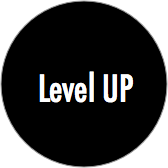
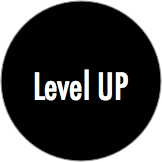
Add simple game ui

Changed region(s): [[0.1852, 0.4012, 0.8025, 0.6481]]

diff --git a/static/js/game.js b/static/js/game.js
@@ -1,2 +1,2 @@
-"use strict";function _classCallCheck(t,e){if(!(t instanceof e))throw new TypeError("Cannot call a class as a function")}function _classCallCheck(t,e){if(!(t instanceof e))throw new TypeError("Cannot call a class as a function")}function _inherits(t,e){if("function"!=typeof e&&null!==e)throw new TypeError("Super expression must either be null or a function, not "+typeof e);t.prototype=Object.create(e&&e.prototype,{constructor:{value:t,enumerable:!1,writable:!0,configurable:!0}}),e&&(t.__proto__=e)}function _classCallCheck(t,e){if(!(t instanceof e))throw new TypeError("Cannot call a class as a function")}function _inherits(t,e){if("function"!=typeof e&&null!==e)throw new TypeError("Super expression must either be null or a function, not "+typeof e);t.prototype=Object.create(e&&e.prototype,{constructor:{value:t,enumerable:!1,writable:!0,configurable:!0}}),e&&(t.__proto__=e)}function _classCallCheck(t,e){if(!(t instanceof e))throw new TypeError("Cannot call a class as a function")}function _inherits(t,e){if("function"!=typeof e&&null!==e)throw new TypeError("Super expression must either be null or a function, not "+typeof e);t.prototype=Object.create(e&&e.prototype,{constructor:{value:t,enumerable:!1,writable:!0,configurable:!0}}),e&&(t.__proto__=e)}function _classCallCheck(t,e){if(!(t instanceof e))throw new TypeError("Cannot call a class as a function")}function _inherits(t,e){if("function"!=typeof e&&null!==e)throw new TypeError("Super expression must either be null or a function, not "+typeof e);t.prototype=Object.create(e&&e.prototype,{constructor:{value:t,enumerable:!1,writable:!0,configurable:!0}}),e&&(t.__proto__=e)}function _classCallCheck(t,e){if(!(t instanceof e))throw new TypeError("Cannot call a class as a function")}window.Assets=window.Assets||{},Assets.MainMenu={btn_StartGame:"ui/btn_StartGame.png"},Assets.BattleField={dev_Enemy:"monsters/dev_Enemy.png",dev_Tower:"towers/dev_Tower01.png",UI_Placehold:"ui/UI_Placehold.png"},window.Debug=window.Debug||!0,window.States=window.States||{},window.Scenes=window.Scenes||{},window.Objects=window.Objects||{},window.Input=window.Input||{},window.Game=window.Input||{},window.Teams={Walrus:0,Slime:1},window.Types={Tower:1e3,Monster:1001},window.Settings={UI:{Height:200}},window.Helper=window.Helper||{},Helper.RetinaFilter=function(t,e){return t},Helper.LoadImages=function(t,e,n){var a="";n=n||0;for(a in e)t.image(a,"img/"+Helper.RetinaFilter(e[a],n))},Helper.CalcLand=function(t,e){var n=t.height,a=e.height/2;return n-Settings.UI.Height-a};var _createClass=function(){function t(t,e){for(var n=0;n<e.length;n++){var a=e[n];a.enumerable=a.enumerable||!1,a.configurable=!0,"value"in a&&(a.writable=!0),Object.defineProperty(t,a.key,a)}}return function(e,n,a){return n&&t(e.prototype,n),a&&t(e,a),e}}();Input=function(){function t(){_classCallCheck(this,t),this._pointerData=[],this._cameraX=0}return _createClass(t,[{key:"OnTouchStart",value:function(){var t=this;return function(e){t._pointerData.push({x:e.touches[0].clientX,y:e.touches[0].clientY}),t.cameraX=this.camera.x}}},{key:"OnTouchEnd",value:function(){var t=this;return function(e){t._pointerData=[]}}},{key:"OnTouchMove",value:function(){var t=this;return function(e){"BattleField"==this.state.current&&(t._pointerData.push({x:e.touches[0].clientX,y:e.touches[0].clientY}),this.camera.x=t.horizontalDragStep())}}},{key:"OnKeyPress",value:function(){return function(t,e){if("BattleField"==this.game.state.current){var n=this.game.state.getCurrentState();(t==Phaser.Keyboard.RIGHT||"d"==t)&&(n.ScrollDirection=Input.SCROLL_DIRECTION.RIGHT),(t==Phaser.Keyboard.LEFT||"a"==t)&&(n.ScrollDirection=Input.SCROLL_DIRECTION.LEFT)}}}},{key:"OnKeyUp",value:function(){return function(t,e){if("BattleField"==this.game.state.current){var n=this.game.state.getCurrentState();n.ScrollDirection=Input.SCROLL_DIRECTION.STOP}}}},{key:"horizontalDragStep",value:function(){if(this._pointerData.length<2)return 0;var t=this._pointerData[0],e=this._pointerData.pop();return-1==t.x||-1==e.x?(this._pointerData.shift(),0):this.cameraX-(t.x-e.x)}}],[{key:"SCROLL_SPEED",get:function(){return 20}},{key:"SCROLL_DIRECTION",get:function(){return{STOP:0,LEFT:1,RIGHT:2}}}]),t}(),function(){window.onload=function(){var t=new Phaser.Game(1024,768,Phaser.AUTO,"");t.state.add("Boot",Scenes.Boot),t.state.add("Preloader",Scenes.Preloader),t.state.add("Loading",Scenes.Loading),t.state.add("MainMenu",Scenes.MainMenu),t.state.add("BattleField",Scenes.BattleField),t.state.start("Boot")}}();var _createClass=function(){function t(t,e){for(var n=0;n<e.length;n++){var a=e[n];a.enumerable=a.enumerable||!1,a.configurable=!0,"value"in a&&(a.writable=!0),Object.defineProperty(t,a.key,a)}}return function(e,n,a){return n&&t(e.prototype,n),a&&t(e,a),e}}(),_get=function(t,e,n){for(var a=!0;a;){var i=t,o=e,s=n;r=l=c=void 0,a=!1,null===i&&(i=Function.prototype);var r=Object.getOwnPropertyDescriptor(i,o);if(void 0!==r){if("value"in r)return r.value;var c=r.get;return void 0===c?void 0:c.call(s)}var l=Object.getPrototypeOf(i);if(null===l)return void 0;t=l,e=o,n=s,a=!0}};Objects.ManaUI=function(t){function e(t,n,a,i){_classCallCheck(this,e),_get(Object.getPrototypeOf(e.prototype),"constructor",this).call(this,t,n,a,"Mana: 0/0",{font:"normal 24px 'Open Sans'",fill:"#FFF"}),this.tower=i,this.fixedToCamera=!0,console.log(this)}return _inherits(e,t),_createClass(e,[{key:"update",value:function(){this.setText("Mana: "+this.tower._mana+"/"+this.tower._maxMana)}}]),e}(Phaser.Text);var _createClass=function(){function t(t,e){for(var n=0;n<e.length;n++){var a=e[n];a.enumerable=a.enumerable||!1,a.configurable=!0,"value"in a&&(a.writable=!0),Object.defineProperty(t,a.key,a)}}return function(e,n,a){return n&&t(e.prototype,n),a&&t(e,a),e}}(),_get=function(t,e,n){for(var a=!0;a;){var i=t,o=e,s=n;r=l=c=void 0,a=!1,null===i&&(i=Function.prototype);var r=Object.getOwnPropertyDescriptor(i,o);if(void 0!==r){if("value"in r)return r.value;var c=r.get;return void 0===c?void 0:c.call(s)}var l=Object.getPrototypeOf(i);if(null===l)return void 0;t=l,e=o,n=s,a=!0}};Objects.Monster=function(t){function e(t,n,a,i){_classCallCheck(this,e),_get(Object.getPrototypeOf(e.prototype),"constructor",this).call(this,t,a,0,n,""),this.y=Helper.CalcLand(this.game,this),t.physics.enable(this,Phaser.Physics.P2JS,Debug),this.team=i,this.active=!0,this.state=States.MonsterMove,this.type=Types.Monster,this._attackTarget=null,this._speed=300,this._health=500,this._damage=20,this._minDamageRatio=.8,this._maxDamageRatio=1.2,this._attackSpeed=.25,this._coolDown=!1,this.initCollision()}return _inherits(e,t),_createClass(e,[{key:"initCollision",value:function(){if("BattleField"==this.game.state.current){var t=this.game.state.getCurrentState();switch(this.team){case Teams.Walrus:this.body.setCollisionGroup(t.CollisionGroup.Walrus),this.body.collides(t.CollisionGroup.Slime);break;case Teams.Slime:this.body.setCollisionGroup(t.CollisionGroup.Slime),this.body.collides(t.CollisionGroup.Walrus)}this.body.onBeginContact.add(this.onBeginContact,this),this.body.onEndContact.add(this.onEndContact,this)}}},{key:"update",value:function(){this.body.setZeroVelocity(),this.body.setZeroRotation(),this.state.update(this)}},{key:"onBeginContact",value:function(t){this.attackTarget=t.sprite,this.state.handleEvent(this,States.Monster.Events.BeginContact)}},{key:"onEndContact",value:function(t){this.attackTarget=null,this.state.handleEvent(this,States.Monster.Events.EndContact)}},{key:"setState",value:function(t){this.state=t}},{key:"move",value:function(){this.team==Game.team?this.body.moveRight(this._speed):this.body.moveLeft(this._speed)}},{key:"tryAttack",value:function(){if(this.attackTarget.team!=this.team&&!this._coolDown)switch(this.attackTarget.type){case Types.Tower:case Types.Monster:this.attackTarget.damage(this.game.rnd.realInRange(this._damage*this._minDamageRatio,this._damage*this._maxDamageRatio)),this.coolDown()}}},{key:"coolDown",value:function(){var t=this;this._coolDown=!0,this.game.time.events.add(Phaser.Timer.SECOND*this._attackSpeed,function(){t._coolDown=!1})}},{key:"damage",value:function(t){this._health-=t,this._health<=0&&this.destroy()}}],[{key:"cost",get:function(){return 50}}]),e}(Phaser.Sprite);var _createClass=function(){function t(t,e){for(var n=0;n<e.length;n++){var a=e[n];a.enumerable=a.enumerable||!1,a.configurable=!0,"value"in a&&(a.writable=!0),Object.defineProperty(t,a.key,a)}}return function(e,n,a){return n&&t(e.prototype,n),a&&t(e,a),e}}(),_get=function(t,e,n){for(var a=!0;a;){var i=t,o=e,s=n;r=l=c=void 0,a=!1,null===i&&(i=Function.prototype);var r=Object.getOwnPropertyDescriptor(i,o);if(void 0!==r){if("value"in r)return r.value;var c=r.get;return void 0===c?void 0:c.call(s)}var l=Object.getPrototypeOf(i);if(null===l)return void 0;t=l,e=o,n=s,a=!0}};Objects.Tower=function(t){function e(t,n,a,i){_classCallCheck(this,e),_get(Object.getPrototypeOf(e.prototype),"constructor",this).call(this,t,a,0,n,""),this.y=Helper.CalcLand(this.game,this),t.physics.enable(this,Phaser.Physics.P2JS,Debug),this.body.kinematic=!0,this.team=i,this.type=Types.Tower,this._health=1e3,this._mana=0,this._maxMana=500,this._manaRecover=10,this._rank=1,this.game.time.events.loop(.5*Phaser.Timer.SECOND,this.recoverMana,this),this.initCollision()}return _inherits(e,t),_createClass(e,[{key:"initCollision",value:function(){if("BattleField"==this.game.state.current){var t=this.game.state.getCurrentState();switch(this.team){case Teams.Walrus:this.body.setCollisionGroup(t.CollisionGroup.Walrus),this.body.collides(t.CollisionGroup.Slime);break;case Teams.Slime:this.body.setCollisionGroup(t.CollisionGroup.Slime),this.body.collides(t.CollisionGroup.Walrus)}}}},{key:"damage",value:function(t){this._health-=t,this._health<=0&&this.destroy()}},{key:"recoverMana",value:function(){this._mana+=this._manaRecover,this._mana>this._maxMana&&(this._mana=this._maxMana)}}]),e}(Phaser.Sprite),Scenes.BattleField=function(t){this.GameScene=null,this.Layer={Background:null,Objects:null,SkillFx:null},this.UI=null,this.CollisionGroup={Walrus:null,Slime:null},this.ScrollDirection=Input.SCROLL_DIRECTION.STOP,this.PlayerTower=null},Scenes.BattleField.prototype={init:function(){this.initLayers(),this.initPhysics(),this.initGame(),this.initUI()},create:function(){this.world.setBounds(0,0,4e3,768),this.Layer.Objects.add(this.PlayerTower),this.Layer.Objects.add(new Objects.Monster(this.game,"dev_Enemy",0,Teams.Walrus)),this.Layer.Objects.add(new Objects.Tower(this.game,"dev_Tower",800,Teams.Slime)),this.Layer.Objects.add(new Objects.Monster(this.game,"dev_Enemy",1e3,Teams.Slime)),this.add.image(0,568,"UI_Placehold","",this.UI)},update:function(){this.handleScrolling()},initLayers:function(){this.GameScene=this.add.group(this.world,"GameScene"),this.UI=this.add.group(this.world,"UI"),this.Layer.Background=this.add.group(this.GameScene,"Background"),this.Layer.Objects=this.add.group(this.GameScene,"Objects"),this.Layer.SkillFx=this.add.group(this.GameScene,"SkillFx"),this.UI.fixedToCamera=!0,this.UI.cameraOffset.setTo(0,0)},initPhysics:function(){this.game.physics.p2.setImpactEvents(!0),this.CollisionGroup.Slime=this.game.physics.p2.createCollisionGroup(),this.CollisionGroup.Walrus=this.game.physics.p2.createCollisionGroup()},initGame:function(){this.PlayerTower=new Objects.Tower(this.game,"dev_Tower",300,Game.team)},initUI:function(){this.UI.add(new Objects.ManaUI(this.game,40,20,this.PlayerTower))},handleScrolling:function(){switch(this.ScrollDirection){case Input.SCROLL_DIRECTION.RIGHT:this.camera.x+=Input.SCROLL_SPEED;break;case Input.SCROLL_DIRECTION.LEFT:this.camera.x-=Input.SCROLL_SPEED}}},Scenes.Boot={init:function(){this.input.maxPointers=1,this.stage.disableVisibilityChange=!0,this.scale.scaleMode=Phaser.ScaleManager.SHOW_ALL,this.scale.setMinMax(480,260,1024,768),this.scale.pageAlignHorizontally=!0,this.scale.pageAlignVertically=!0,this.game.device.desktop||(this.stage.scaleMode=Phaser.ScaleManager.EXACT_FIT),this.scale.refresh()},preload:function(){},create:function(){this.state.start("Preloader");var t=new Input;this.input.touch.touchStartCallback=t.OnTouchStart(),this.input.touch.touchMoveCallback=t.OnTouchMove(),this.input.touch.touchEndCallback=t.OnTouchEnd(),this.input.keyboard.onPressCallback=t.OnKeyPress(),this.input.keyboard.onUpCallback=t.OnKeyUp(),this.game.time.advancedTiming=!0,this.physics.startSystem(Phaser.Physics.P2JS)},gameResized:function(t,e){}},Scenes.Loading=function(t){this.targetState=null,this.preloadList={}},Scenes.Loading.prototype={init:function(t,e){this.targetState=t,this.preloadList=e||{}},preload:function(){Helper.LoadImages(this.load,this.preloadList,this.game.device.pixelRatio)},update:function(){this.load.hasLoaded&&this.state.start(this.targetState)}},Scenes.MainMenu=function(t){this.ui={startGame:null}},Scenes.MainMenu.prototype={create:function(){var t=this.cache.getImage("btn_StartGame");this.ui.startGame=this.add.button(this.game.width/2-t.width/2,this.game.height/2-t.height/2,"btn_StartGame",this.startGame,this)},update:function(){},startGame:function(){this.state.start("Loading",!0,!1,"BattleField",Assets.BattleField)}},Scenes.Preloader={preload:function(){Helper.LoadImages(this.load,Assets.MainMenu,this.game.device.pixelRatio)},create:function(){},update:function(){this.load.hasLoaded&&this.state.start("MainMenu")}};var _createClass=function(){function t(t,e){for(var n=0;n<e.length;n++){var a=e[n];a.enumerable=a.enumerable||!1,a.configurable=!0,"value"in a&&(a.writable=!0),Object.defineProperty(t,a.key,a)}}return function(e,n,a){return n&&t(e.prototype,n),a&&t(e,a),e}}();!function(){var t=function(){function t(){_classCallCheck(this,t),this.team=Teams.Walrus}return _createClass(t,[{key:"setTeam",value:function(t){this.team=t}}]),t}();Game=new t}();var _get=function(t,e,n){for(var a=!0;a;){var i=t,o=e,s=n;r=l=c=void 0,a=!1,null===i&&(i=Function.prototype);var r=Object.getOwnPropertyDescriptor(i,o);if(void 0!==r){if("value"in r)return r.value;var c=r.get;return void 0===c?void 0:c.call(s)}var l=Object.getPrototypeOf(i);if(null===l)return void 0;t=l,e=o,n=s,a=!0}},_createClass=function(){function t(t,e){for(var n=0;n<e.length;n++){var a=e[n];a.enumerable=a.enumerable||!1,a.configurable=!0,"value"in a&&(a.writable=!0),Object.defineProperty(t,a.key,a)}}return function(e,n,a){return n&&t(e.prototype,n),a&&t(e,a),e}}();!function(){var t={BeginContact:0,EndContact:1,Dead:2},e=function(){function e(){_classCallCheck(this,e)}return _createClass(e,[{key:"handleEvent",value:function(t,n){return t.SetState(e.MoveState)}},{key:"update",value:function(){}}],[{key:"MoveState",get:function(){return States.MonsterMove}},{key:"AttackState",get:function(){return States.MonsterAttack}},{key:"DeadState",get:function(){return States.DeadState}},{key:"Events",get:function(){return t}}]),e}(),n=function(e){function n(){_classCallCheck(this,n),_get(Object.getPrototypeOf(n.prototype),"constructor",this).apply(this,arguments)}return _inherits(n,e),_createClass(n,[{key:"handleEvent",value:function(e,n){switch(n){case t.BeginContact:e.setState(States.MonsterAttack)}}},{key:"update",value:function(t){t.move()}}]),n}(e),a=function(e){function n(){_classCallCheck(this,n),_get(Object.getPrototypeOf(n.prototype),"constructor",this).apply(this,arguments)}return _inherits(n,e),_createClass(n,[{key:"handleEvent",value:function(e,n){switch(n){case t.EndContact:e.setState(States.MonsterMove)}}},{key:"update",value:function(t){t.tryAttack()}}]),n}(e),i=function(t){function e(){_classCallCheck(this,e),_get(Object.getPrototypeOf(e.prototype),"constructor",this).apply(this,arguments)}return _inherits(e,t),_createClass(e,[{key:"handleEvent",value:function(t,e){}},{key:"update",value:function(t){}}]),e}(e);States.Monster=e,States.MonsterMove=new n,States.MonsterAttack=new a,States.MonsterDead=new i}();
+"use strict";function _classCallCheck(t,e){if(!(t instanceof e))throw new TypeError("Cannot call a class as a function")}function _classCallCheck(t,e){if(!(t instanceof e))throw new TypeError("Cannot call a class as a function")}function _inherits(t,e){if("function"!=typeof e&&null!==e)throw new TypeError("Super expression must either be null or a function, not "+typeof e);t.prototype=Object.create(e&&e.prototype,{constructor:{value:t,enumerable:!1,writable:!0,configurable:!0}}),e&&(t.__proto__=e)}function _classCallCheck(t,e){if(!(t instanceof e))throw new TypeError("Cannot call a class as a function")}function _inherits(t,e){if("function"!=typeof e&&null!==e)throw new TypeError("Super expression must either be null or a function, not "+typeof e);t.prototype=Object.create(e&&e.prototype,{constructor:{value:t,enumerable:!1,writable:!0,configurable:!0}}),e&&(t.__proto__=e)}function _classCallCheck(t,e){if(!(t instanceof e))throw new TypeError("Cannot call a class as a function")}function _inherits(t,e){if("function"!=typeof e&&null!==e)throw new TypeError("Super expression must either be null or a function, not "+typeof e);t.prototype=Object.create(e&&e.prototype,{constructor:{value:t,enumerable:!1,writable:!0,configurable:!0}}),e&&(t.__proto__=e)}function _classCallCheck(t,e){if(!(t instanceof e))throw new TypeError("Cannot call a class as a function")}function _inherits(t,e){if("function"!=typeof e&&null!==e)throw new TypeError("Super expression must either be null or a function, not "+typeof e);t.prototype=Object.create(e&&e.prototype,{constructor:{value:t,enumerable:!1,writable:!0,configurable:!0}}),e&&(t.__proto__=e)}function _classCallCheck(t,e){if(!(t instanceof e))throw new TypeError("Cannot call a class as a function")}function _inherits(t,e){if("function"!=typeof e&&null!==e)throw new TypeError("Super expression must either be null or a function, not "+typeof e);t.prototype=Object.create(e&&e.prototype,{constructor:{value:t,enumerable:!1,writable:!0,configurable:!0}}),e&&(t.__proto__=e)}function _classCallCheck(t,e){if(!(t instanceof e))throw new TypeError("Cannot call a class as a function")}function _inherits(t,e){if("function"!=typeof e&&null!==e)throw new TypeError("Super expression must either be null or a function, not "+typeof e);t.prototype=Object.create(e&&e.prototype,{constructor:{value:t,enumerable:!1,writable:!0,configurable:!0}}),e&&(t.__proto__=e)}function _classCallCheck(t,e){if(!(t instanceof e))throw new TypeError("Cannot call a class as a function")}function _inherits(t,e){if("function"!=typeof e&&null!==e)throw new TypeError("Super expression must either be null or a function, not "+typeof e);t.prototype=Object.create(e&&e.prototype,{constructor:{value:t,enumerable:!1,writable:!0,configurable:!0}}),e&&(t.__proto__=e)}function _classCallCheck(t,e){if(!(t instanceof e))throw new TypeError("Cannot call a class as a function")}window.Assets=window.Assets||{},Assets.MainMenu={btn_StartGame:"ui/btn_StartGame.png"},Assets.BattleField={dev_Enemy:"monsters/dev_Enemy.png",dev_Tower:"towers/dev_Tower01.png",UI_Placehold:"ui/UI_Placehold.png",UI_MonsterCard:"ui/UI_MonsterCard.png",UI_MonsterCardSuper:"ui/UI_MonsterCardSuper.png",btn_LevelUP:"ui/btn_LevelUP.png"},window.Debug=window.Debug||!0,window.States=window.States||{},window.Scenes=window.Scenes||{},window.Objects=window.Objects||{},window.Input=window.Input||{},window.Game=window.Input||{},window.Teams={Walrus:0,Slime:1},window.Types={Tower:1e3,Monster:1001},window.MonsterType={Normal:0},window.Settings={UI:{Height:200}},window.Helper=window.Helper||{},Helper.RetinaFilter=function(t,e){return t},Helper.LoadImages=function(t,e,n){var a="";n=n||0;for(a in e)t.image(a,"img/"+Helper.RetinaFilter(e[a],n))},Helper.CalcLand=function(t,e){var n=t.height,a=e.height/2;return n-Settings.UI.Height-a};var _createClass=function(){function t(t,e){for(var n=0;n<e.length;n++){var a=e[n];a.enumerable=a.enumerable||!1,a.configurable=!0,"value"in a&&(a.writable=!0),Object.defineProperty(t,a.key,a)}}return function(e,n,a){return n&&t(e.prototype,n),a&&t(e,a),e}}();Input=function(){function t(){_classCallCheck(this,t),this._pointerData=[],this._cameraX=0}return _createClass(t,[{key:"OnTouchStart",value:function(){var t=this;return function(e){t._pointerData.push({x:e.touches[0].clientX,y:e.touches[0].clientY}),t.cameraX=this.camera.x}}},{key:"OnTouchEnd",value:function(){var t=this;return function(e){t._pointerData=[]}}},{key:"OnTouchMove",value:function(){var t=this;return function(e){"BattleField"==this.state.current&&(t._pointerData.push({x:e.touches[0].clientX,y:e.touches[0].clientY}),this.camera.x=t.horizontalDragStep())}}},{key:"OnKeyPress",value:function(){return function(t,e){if("BattleField"==this.game.state.current){var n=this.game.state.getCurrentState();(t==Phaser.Keyboard.RIGHT||"d"==t)&&(n.ScrollDirection=Input.SCROLL_DIRECTION.RIGHT),(t==Phaser.Keyboard.LEFT||"a"==t)&&(n.ScrollDirection=Input.SCROLL_DIRECTION.LEFT)}}}},{key:"OnKeyUp",value:function(){return function(t,e){if("BattleField"==this.game.state.current){var n=this.game.state.getCurrentState();n.ScrollDirection=Input.SCROLL_DIRECTION.STOP}}}},{key:"horizontalDragStep",value:function(){if(this._pointerData.length<2)return 0;var t=this._pointerData[0],e=this._pointerData.pop();return-1==t.x||-1==e.x?(this._pointerData.shift(),0):this.cameraX-(t.x-e.x)}}],[{key:"SCROLL_SPEED",get:function(){return 20}},{key:"SCROLL_DIRECTION",get:function(){return{STOP:0,LEFT:1,RIGHT:2}}}]),t}(),function(){window.onload=function(){var t=new Phaser.Game(1024,768,Phaser.AUTO,"");t.state.add("Boot",Scenes.Boot),t.state.add("Preloader",Scenes.Preloader),t.state.add("Loading",Scenes.Loading),t.state.add("MainMenu",Scenes.MainMenu),t.state.add("BattleField",Scenes.BattleField),t.state.start("Boot")}}();var _createClass=function(){function t(t,e){for(var n=0;n<e.length;n++){var a=e[n];a.enumerable=a.enumerable||!1,a.configurable=!0,"value"in a&&(a.writable=!0),Object.defineProperty(t,a.key,a)}}return function(e,n,a){return n&&t(e.prototype,n),a&&t(e,a),e}}(),_get=function(t,e,n){for(var a=!0;a;){var i=t,r=e,o=n;s=l=c=void 0,a=!1,null===i&&(i=Function.prototype);var s=Object.getOwnPropertyDescriptor(i,r);if(void 0!==s){if("value"in s)return s.value;var c=s.get;return void 0===c?void 0:c.call(o)}var l=Object.getPrototypeOf(i);if(null===l)return void 0;t=l,e=r,n=o,a=!0}};Objects.GameUI=function(t){function e(t,n,a,i){_classCallCheck(this,e),_get(Object.getPrototypeOf(e.prototype),"constructor",this).call(this,t,n,a),this.fixedToCamera=!0,this.scene=i,this.initMonsterCard(),this.initUI()}return _inherits(e,t),_createClass(e,[{key:"initMonsterCard",value:function(){this.game.add.image(0,568,"UI_Placehold","",this),this.add(new Objects.MonsterCardUI(this.game,0,568,"UI_MonsterCard",MonsterType.Nomral)),this.add(new Objects.MonsterCardUI(this.game,120,568,"UI_MonsterCard",MonsterType.Nomral)),this.add(new Objects.MonsterCardUI(this.game,240,568,"UI_MonsterCard",MonsterType.Nomral)),this.add(new Objects.MonsterCardUI(this.game,360,568,"UI_MonsterCard",MonsterType.Nomral)),this.add(new Objects.MonsterCardUI(this.game,480,568,"UI_MonsterCard",MonsterType.Nomral)),this.add(new Objects.MonsterCardUI(this.game,600,568,"UI_MonsterCardSuper",MonsterType.Nomral)),this.add(new Objects.LevelUpUI(this.game,840,586))}},{key:"initUI",value:function(){this.add(new Objects.ManaUI(this.game,40,20,this.scene.PlayerTower))}}]),e}(Phaser.Group);var _createClass=function(){function t(t,e){for(var n=0;n<e.length;n++){var a=e[n];a.enumerable=a.enumerable||!1,a.configurable=!0,"value"in a&&(a.writable=!0),Object.defineProperty(t,a.key,a)}}return function(e,n,a){return n&&t(e.prototype,n),a&&t(e,a),e}}(),_get=function(t,e,n){for(var a=!0;a;){var i=t,r=e,o=n;s=l=c=void 0,a=!1,null===i&&(i=Function.prototype);var s=Object.getOwnPropertyDescriptor(i,r);if(void 0!==s){if("value"in s)return s.value;var c=s.get;return void 0===c?void 0:c.call(o)}var l=Object.getPrototypeOf(i);if(null===l)return void 0;t=l,e=r,n=o,a=!0}};Objects.LevelUpUI=function(t){function e(t,n,a){_classCallCheck(this,e),_get(Object.getPrototypeOf(e.prototype),"constructor",this).call(this,t,n,a,"btn_LevelUP"),this.onInputUp.add(this.onClick,this)}return _inherits(e,t),_createClass(e,[{key:"onClick",value:function(){}}]),e}(Phaser.Button);var _createClass=function(){function t(t,e){for(var n=0;n<e.length;n++){var a=e[n];a.enumerable=a.enumerable||!1,a.configurable=!0,"value"in a&&(a.writable=!0),Object.defineProperty(t,a.key,a)}}return function(e,n,a){return n&&t(e.prototype,n),a&&t(e,a),e}}(),_get=function(t,e,n){for(var a=!0;a;){var i=t,r=e,o=n;s=l=c=void 0,a=!1,null===i&&(i=Function.prototype);var s=Object.getOwnPropertyDescriptor(i,r);if(void 0!==s){if("value"in s)return s.value;var c=s.get;return void 0===c?void 0:c.call(o)}var l=Object.getPrototypeOf(i);if(null===l)return void 0;t=l,e=r,n=o,a=!0}};Objects.ManaUI=function(t){function e(t,n,a,i){_classCallCheck(this,e),_get(Object.getPrototypeOf(e.prototype),"constructor",this).call(this,t,n,a,"Mana: 0/0",{font:"normal 24px 'Open Sans'",fill:"#FFF"}),this.tower=i}return _inherits(e,t),_createClass(e,[{key:"update",value:function(){this.setText("Mana: "+this.tower._mana+"/"+this.tower._maxMana)}}]),e}(Phaser.Text);var _createClass=function(){function t(t,e){for(var n=0;n<e.length;n++){var a=e[n];a.enumerable=a.enumerable||!1,a.configurable=!0,"value"in a&&(a.writable=!0),Object.defineProperty(t,a.key,a)}}return function(e,n,a){return n&&t(e.prototype,n),a&&t(e,a),e}}(),_get=function(t,e,n){for(var a=!0;a;){var i=t,r=e,o=n;s=l=c=void 0,a=!1,null===i&&(i=Function.prototype);var s=Object.getOwnPropertyDescriptor(i,r);if(void 0!==s){if("value"in s)return s.value;var c=s.get;return void 0===c?void 0:c.call(o)}var l=Object.getPrototypeOf(i);if(null===l)return void 0;t=l,e=r,n=o,a=!0}};Objects.Monster=function(t){function e(t,n,a,i){_classCallCheck(this,e),_get(Object.getPrototypeOf(e.prototype),"constructor",this).call(this,t,a,0,n,""),this.y=Helper.CalcLand(this.game,this),t.physics.enable(this,Phaser.Physics.P2JS,Debug),this.team=i,this.active=!0,this.state=States.MonsterMove,this.type=Types.Monster,this._attackTarget=null,this._speed=300,this._health=500,this._damage=20,this._minDamageRatio=.8,this._maxDamageRatio=1.2,this._attackSpeed=.25,this._coolDown=!1,this.initCollision()}return _inherits(e,t),_createClass(e,[{key:"initCollision",value:function(){if("BattleField"==this.game.state.current){var t=this.game.state.getCurrentState();switch(this.team){case Teams.Walrus:this.body.setCollisionGroup(t.CollisionGroup.Walrus),this.body.collides(t.CollisionGroup.Slime);break;case Teams.Slime:this.body.setCollisionGroup(t.CollisionGroup.Slime),this.body.collides(t.CollisionGroup.Walrus)}this.body.onBeginContact.add(this.onBeginContact,this),this.body.onEndContact.add(this.onEndContact,this)}}},{key:"update",value:function(){this.body.setZeroVelocity(),this.body.setZeroRotation(),this.state.update(this)}},{key:"onBeginContact",value:function(t){this.attackTarget=t.sprite,this.state.handleEvent(this,States.Monster.Events.BeginContact)}},{key:"onEndContact",value:function(t){this.attackTarget=null,this.state.handleEvent(this,States.Monster.Events.EndContact)}},{key:"setState",value:function(t){this.state=t}},{key:"move",value:function(){this.team==Game.team?this.body.moveRight(this._speed):this.body.moveLeft(this._speed)}},{key:"tryAttack",value:function(){if(this.attackTarget.team!=this.team&&!this._coolDown)switch(this.attackTarget.type){case Types.Tower:case Types.Monster:this.attackTarget.damage(this.game.rnd.realInRange(this._damage*this._minDamageRatio,this._damage*this._maxDamageRatio)),this.coolDown()}}},{key:"coolDown",value:function(){var t=this;this._coolDown=!0,this.game.time.events.add(Phaser.Timer.SECOND*this._attackSpeed,function(){t._coolDown=!1})}},{key:"damage",value:function(t){this._health-=t,this._health<=0&&this.destroy()}}],[{key:"cost",get:function(){return 50}}]),e}(Phaser.Sprite);var _createClass=function(){function t(t,e){for(var n=0;n<e.length;n++){var a=e[n];a.enumerable=a.enumerable||!1,a.configurable=!0,"value"in a&&(a.writable=!0),Object.defineProperty(t,a.key,a)}}return function(e,n,a){return n&&t(e.prototype,n),a&&t(e,a),e}}(),_get=function(t,e,n){for(var a=!0;a;){var i=t,r=e,o=n;s=l=c=void 0,a=!1,null===i&&(i=Function.prototype);var s=Object.getOwnPropertyDescriptor(i,r);if(void 0!==s){if("value"in s)return s.value;var c=s.get;return void 0===c?void 0:c.call(o)}var l=Object.getPrototypeOf(i);if(null===l)return void 0;t=l,e=r,n=o,a=!0}};Objects.MonsterCardUI=function(t){function e(t,n,a,i,r){_classCallCheck(this,e),_get(Object.getPrototypeOf(e.prototype),"constructor",this).call(this,t,n,a,i),this.monsterType=r,this.onInputUp.add(this.onClick,this)}return _inherits(e,t),_createClass(e,[{key:"onClick",value:function(){}}]),e}(Phaser.Button);var _createClass=function(){function t(t,e){for(var n=0;n<e.length;n++){var a=e[n];a.enumerable=a.enumerable||!1,a.configurable=!0,"value"in a&&(a.writable=!0),Object.defineProperty(t,a.key,a)}}return function(e,n,a){return n&&t(e.prototype,n),a&&t(e,a),e}}(),_get=function(t,e,n){for(var a=!0;a;){var i=t,r=e,o=n;s=l=c=void 0,a=!1,null===i&&(i=Function.prototype);var s=Object.getOwnPropertyDescriptor(i,r);if(void 0!==s){if("value"in s)return s.value;var c=s.get;return void 0===c?void 0:c.call(o)}var l=Object.getPrototypeOf(i);if(null===l)return void 0;t=l,e=r,n=o,a=!0}};Objects.Tower=function(t){function e(t,n,a,i){_classCallCheck(this,e),_get(Object.getPrototypeOf(e.prototype),"constructor",this).call(this,t,a,0,n,""),this.y=Helper.CalcLand(this.game,this),t.physics.enable(this,Phaser.Physics.P2JS,Debug),this.body.kinematic=!0,this.team=i,this.type=Types.Tower,this._health=1e3,this._mana=0,this._maxMana=500,this._manaRecover=10,this._rank=1,this.game.time.events.loop(.5*Phaser.Timer.SECOND,this.recoverMana,this),this.initCollision()}return _inherits(e,t),_createClass(e,[{key:"initCollision",value:function(){if("BattleField"==this.game.state.current){var t=this.game.state.getCurrentState();switch(this.team){case Teams.Walrus:this.body.setCollisionGroup(t.CollisionGroup.Walrus),this.body.collides(t.CollisionGroup.Slime);break;case Teams.Slime:this.body.setCollisionGroup(t.CollisionGroup.Slime),this.body.collides(t.CollisionGroup.Walrus)}}}},{key:"damage",value:function(t){this._health-=t,this._health<=0&&this.destroy()}},{key:"recoverMana",value:function(){this._mana+=this._manaRecover,this._mana>this._maxMana&&(this._mana=this._maxMana)}}]),e}(Phaser.Sprite),Scenes.BattleField=function(t){this.GameScene=null,this.Layer={Background:null,Objects:null,SkillFx:null},this.UI=null,this.CollisionGroup={Walrus:null,Slime:null},this.ScrollDirection=Input.SCROLL_DIRECTION.STOP,this.PlayerTower=null},Scenes.BattleField.prototype={init:function(){this.initLayers(),this.initPhysics(),this.initGame(),this.initUI()},create:function(){this.world.setBounds(0,0,4e3,768),this.Layer.Objects.add(this.PlayerTower),this.Layer.Objects.add(new Objects.Monster(this.game,"dev_Enemy",0,Teams.Walrus)),this.Layer.Objects.add(new Objects.Tower(this.game,"dev_Tower",800,Teams.Slime)),this.Layer.Objects.add(new Objects.Monster(this.game,"dev_Enemy",1e3,Teams.Slime))},update:function(){this.handleScrolling()},initLayers:function(){this.GameScene=this.add.group(this.world,"GameScene"),this.Layer.Background=this.add.group(this.GameScene,"Background"),this.Layer.Objects=this.add.group(this.GameScene,"Objects"),this.Layer.SkillFx=this.add.group(this.GameScene,"SkillFx")},initPhysics:function(){this.game.physics.p2.setImpactEvents(!0),this.CollisionGroup.Slime=this.game.physics.p2.createCollisionGroup(),this.CollisionGroup.Walrus=this.game.physics.p2.createCollisionGroup()},initGame:function(){this.PlayerTower=new Objects.Tower(this.game,"dev_Tower",300,Game.team)},initUI:function(){this.UI=new Objects.GameUI(this.game,this.world,"UI",this)},handleScrolling:function(){switch(this.ScrollDirection){case Input.SCROLL_DIRECTION.RIGHT:this.camera.x+=Input.SCROLL_SPEED;break;case Input.SCROLL_DIRECTION.LEFT:this.camera.x-=Input.SCROLL_SPEED}}},Scenes.Boot={init:function(){this.input.maxPointers=1,this.stage.disableVisibilityChange=!0,this.scale.scaleMode=Phaser.ScaleManager.SHOW_ALL,this.scale.setMinMax(480,260,1024,768),this.scale.pageAlignHorizontally=!0,this.scale.pageAlignVertically=!0,this.game.device.desktop||(this.stage.scaleMode=Phaser.ScaleManager.EXACT_FIT),this.scale.refresh()},preload:function(){},create:function(){this.state.start("Preloader");var t=new Input;this.input.touch.touchStartCallback=t.OnTouchStart(),this.input.touch.touchMoveCallback=t.OnTouchMove(),this.input.touch.touchEndCallback=t.OnTouchEnd(),this.input.keyboard.onPressCallback=t.OnKeyPress(),this.input.keyboard.onUpCallback=t.OnKeyUp(),this.game.time.advancedTiming=!0,this.physics.startSystem(Phaser.Physics.P2JS)},gameResized:function(t,e){}},Scenes.Loading=function(t){this.targetState=null,this.preloadList={}},Scenes.Loading.prototype={init:function(t,e){this.targetState=t,this.preloadList=e||{}},preload:function(){Helper.LoadImages(this.load,this.preloadList,this.game.device.pixelRatio)},update:function(){this.load.hasLoaded&&this.state.start(this.targetState)}},Scenes.MainMenu=function(t){this.ui={startGame:null}},Scenes.MainMenu.prototype={create:function(){var t=this.cache.getImage("btn_StartGame");this.ui.startGame=this.add.button(this.game.width/2-t.width/2,this.game.height/2-t.height/2,"btn_StartGame",this.startGame,this)},update:function(){},startGame:function(){this.state.start("Loading",!0,!1,"BattleField",Assets.BattleField)}},Scenes.Preloader={preload:function(){Helper.LoadImages(this.load,Assets.MainMenu,this.game.device.pixelRatio)},create:function(){},update:function(){this.load.hasLoaded&&this.state.start("MainMenu")}};var _createClass=function(){function t(t,e){for(var n=0;n<e.length;n++){var a=e[n];a.enumerable=a.enumerable||!1,a.configurable=!0,"value"in a&&(a.writable=!0),Object.defineProperty(t,a.key,a)}}return function(e,n,a){return n&&t(e.prototype,n),a&&t(e,a),e}}();!function(){var t=function(){function t(){_classCallCheck(this,t),this.team=Teams.Walrus}return _createClass(t,[{key:"setTeam",value:function(t){this.team=t}}]),t}();Game=new t}();var _get=function(t,e,n){for(var a=!0;a;){var i=t,r=e,o=n;s=l=c=void 0,a=!1,null===i&&(i=Function.prototype);var s=Object.getOwnPropertyDescriptor(i,r);if(void 0!==s){if("value"in s)return s.value;var c=s.get;return void 0===c?void 0:c.call(o)}var l=Object.getPrototypeOf(i);if(null===l)return void 0;t=l,e=r,n=o,a=!0}},_createClass=function(){function t(t,e){for(var n=0;n<e.length;n++){var a=e[n];a.enumerable=a.enumerable||!1,a.configurable=!0,"value"in a&&(a.writable=!0),Object.defineProperty(t,a.key,a)}}return function(e,n,a){return n&&t(e.prototype,n),a&&t(e,a),e}}();!function(){var t={BeginContact:0,EndContact:1,Dead:2},e=function(){function e(){_classCallCheck(this,e)}return _createClass(e,[{key:"handleEvent",value:function(t,n){return t.SetState(e.MoveState)}},{key:"update",value:function(){}}],[{key:"MoveState",get:function(){return States.MonsterMove}},{key:"AttackState",get:function(){return States.MonsterAttack}},{key:"DeadState",get:function(){return States.DeadState}},{key:"Events",get:function(){return t}}]),e}(),n=function(e){function n(){_classCallCheck(this,n),_get(Object.getPrototypeOf(n.prototype),"constructor",this).apply(this,arguments)}return _inherits(n,e),_createClass(n,[{key:"handleEvent",value:function(e,n){switch(n){case t.BeginContact:e.setState(States.MonsterAttack)}}},{key:"update",value:function(t){t.move()}}]),n}(e),a=function(e){function n(){_classCallCheck(this,n),_get(Object.getPrototypeOf(n.prototype),"constructor",this).apply(this,arguments)}return _inherits(n,e),_createClass(n,[{key:"handleEvent",value:function(e,n){switch(n){case t.EndContact:e.setState(States.MonsterMove)}}},{key:"update",value:function(t){t.tryAttack()}}]),n}(e),i=function(t){function e(){_classCallCheck(this,e),_get(Object.getPrototypeOf(e.prototype),"constructor",this).apply(this,arguments)}return _inherits(e,t),_createClass(e,[{key:"handleEvent",value:function(t,e){}},{key:"update",value:function(t){}}]),e}(e);States.Monster=e,States.MonsterMove=new n,States.MonsterAttack=new a,States.MonsterDead=new i}();
 //# sourceMappingURL=game.js.map

diff --git a/js/scenes/BattleField.js b/js/scenes/BattleField.js
@@ -36,7 +36,7 @@ Scenes.BattleField.prototype = {
         this.Layer.Objects.add(new Objects.Tower(this.game, 'dev_Tower', 800, Teams.Slime))
         this.Layer.Objects.add(new Objects.Monster(this.game, 'dev_Enemy', 1000, Teams.Slime))
 
-        this.add.image(0, 568, 'UI_Placehold', '', this.UI)
+
     },
 
     update: function() {
@@ -46,16 +46,11 @@ Scenes.BattleField.prototype = {
     initLayers: function() {
         // Initialize Basic Layer
         this.GameScene = this.add.group(this.world, 'GameScene')
-        this.UI = this.add.group(this.world, 'UI')
 
         // Add game scene layers
         this.Layer.Background = this.add.group(this.GameScene, 'Background')
         this.Layer.Objects = this.add.group(this.GameScene, 'Objects')
         this.Layer.SkillFx = this.add.group(this.GameScene, 'SkillFx')
-
-        // Setup Camera
-        this.UI.fixedToCamera = true
-        this.UI.cameraOffset.setTo(0, 0)
     },
 
     initPhysics: function() {
@@ -70,7 +65,7 @@ Scenes.BattleField.prototype = {
     },
 
     initUI: function() {
-        this.UI.add(new Objects.ManaUI(this.game, 40, 20, this.PlayerTower))
+        this.UI = new Objects.GameUI(this.game, this.world,'UI', this)
     },
 
     handleScrolling: function() {

diff --git a/js/objects/GameUI.js b/js/objects/GameUI.js
@@ -1,0 +1,32 @@
+/**
+ * Game UI
+ */
+
+Objects.GameUI = class GameUI extends Phaser.Group {
+    constructor(game, parent, name, scene) {
+        super(game, parent, name)
+        this.fixedToCamera = true
+
+        this.scene = scene
+
+        this.initMonsterCard()
+        this.initUI()
+    }
+
+    initMonsterCard() {
+        this.game.add.image(0, 568, 'UI_Placehold', '', this)
+
+        this.add(new Objects.MonsterCardUI(this.game, 0, 568, 'UI_MonsterCard', MonsterType.Nomral))
+        this.add(new Objects.MonsterCardUI(this.game, 120, 568, 'UI_MonsterCard', MonsterType.Nomral))
+        this.add(new Objects.MonsterCardUI(this.game, 240, 568, 'UI_MonsterCard', MonsterType.Nomral))
+        this.add(new Objects.MonsterCardUI(this.game, 360, 568, 'UI_MonsterCard', MonsterType.Nomral))
+        this.add(new Objects.MonsterCardUI(this.game, 480, 568, 'UI_MonsterCard', MonsterType.Nomral))
+        this.add(new Objects.MonsterCardUI(this.game, 600, 568, 'UI_MonsterCardSuper', MonsterType.Nomral))
+
+        this.add(new Objects.LevelUpUI(this.game, 840, 586))
+    }
+
+    initUI() {
+        this.add(new Objects.ManaUI(this.game, 40, 20, this.scene.PlayerTower))
+    }
+}

diff --git a/js/Assets.js b/js/Assets.js
@@ -9,7 +9,13 @@ Assets.MainMenu = {
 }
 
 Assets.BattleField =  {
+    // Objects
     'dev_Enemy': 'monsters/dev_Enemy.png',
     'dev_Tower': 'towers/dev_Tower01.png',
-    'UI_Placehold': 'ui/UI_Placehold.png'
+    // UI
+    'UI_Placehold': 'ui/UI_Placehold.png',
+    'UI_MonsterCard': 'ui/UI_MonsterCard.png',
+    'UI_MonsterCardSuper': 'ui/UI_MonsterCardSuper.png',
+    // Button
+    'btn_LevelUP': 'ui/btn_LevelUP.png'
 }

diff --git a/js/objects/MonsterCardUI.js b/js/objects/MonsterCardUI.js
@@ -1,0 +1,17 @@
+/***
+ * Monster Card UI
+ */
+
+Objects.MonsterCardUI = class MonsterCardUI extends Phaser.Button {
+    constructor(game, x, y, key, type) {
+        super(game, x, y, key)
+
+        this.monsterType = type
+
+        // Handle Callback
+        this.onInputUp.add(this.onClick, this)
+    }
+
+    onClick() {
+    }
+}

diff --git a/js/objects/ManaUI.js b/js/objects/ManaUI.js
@@ -7,8 +7,6 @@ Objects.ManaUI = class ManaUI extends Phaser.Text {
         super(game, x, y, "Mana: 0/0", {font: "normal 24px 'Open Sans'", fill: '#FFF'})
 
         this.tower = tower
-        this.fixedToCamera = true
-        console.log(this)
     }
 
     update() {

diff --git a/js/objects/LevelUpUI.js b/js/objects/LevelUpUI.js
@@ -1,0 +1,15 @@
+/***
+ * Level UP
+ */
+
+Objects.LevelUpUI = class LevelUpUI extends Phaser.Button {
+    constructor(game, x, y) {
+        super(game, x, y, 'btn_LevelUP')
+
+        this.onInputUp.add(this.onClick, this)
+    }
+
+    onClick() {
+
+    }
+}

diff --git a/js/Core.js b/js/Core.js
@@ -22,6 +22,11 @@ window.Types = {
     Monster: 1001
 }
 
+// Define monster types
+window.MonsterType = {
+    Normal: 0
+}
+
 // Game Settings
 window.Settings = {
     UI: {
